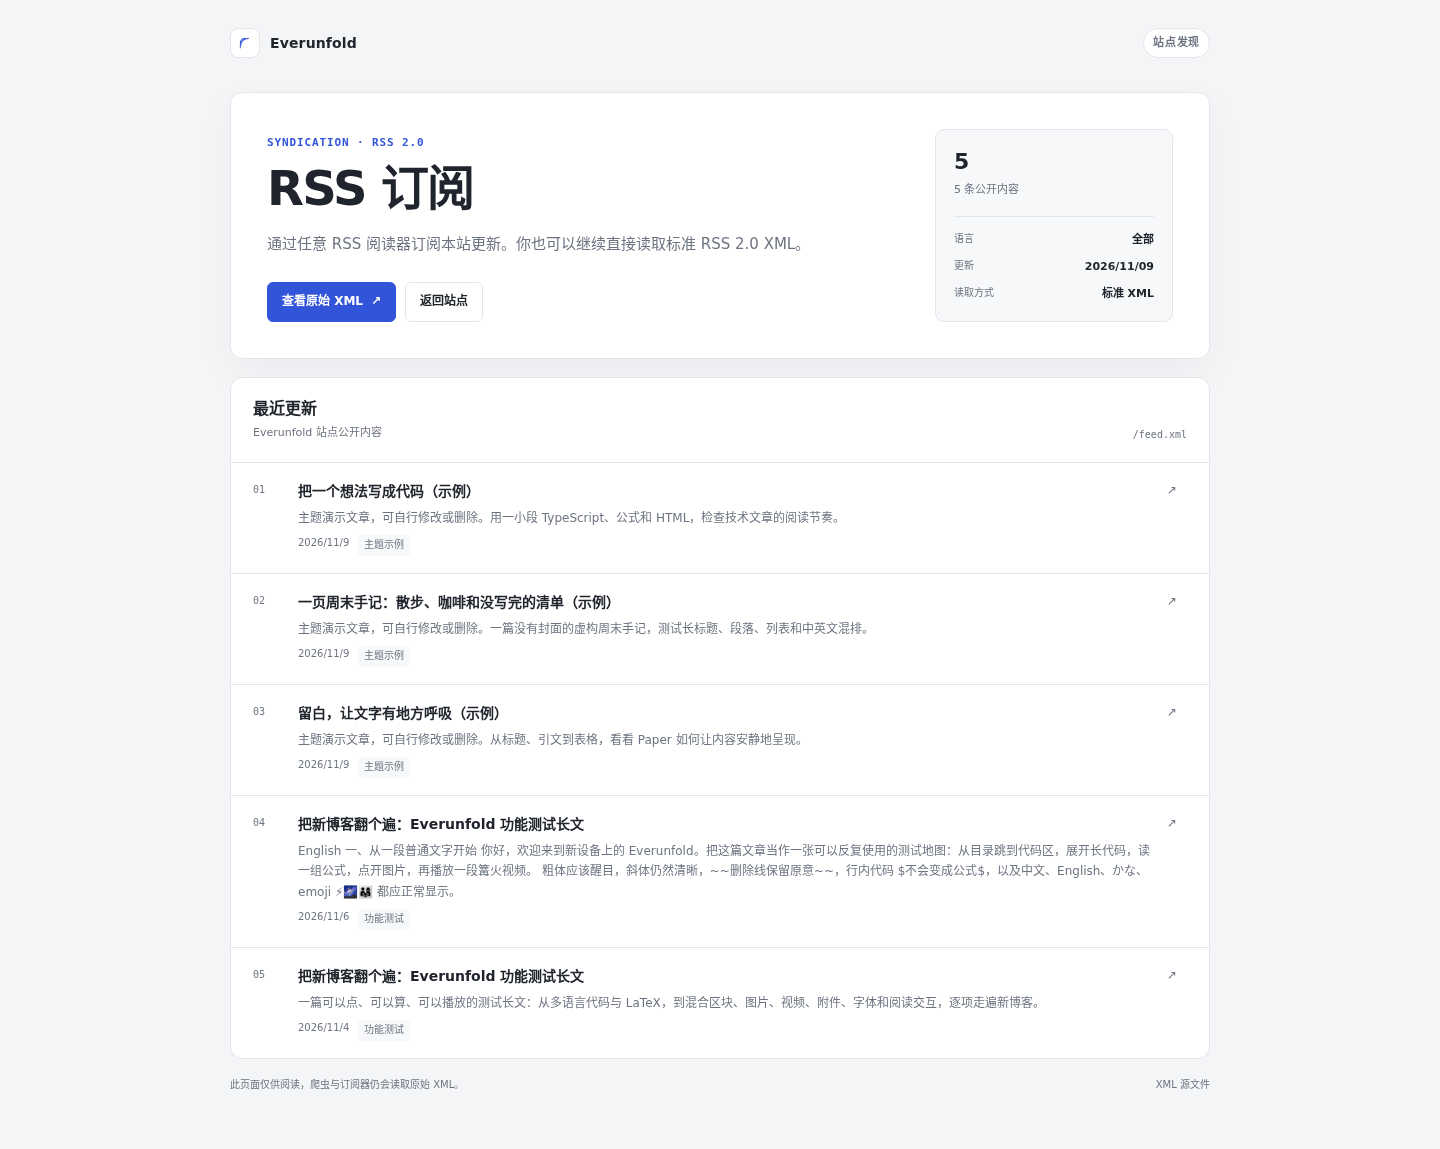
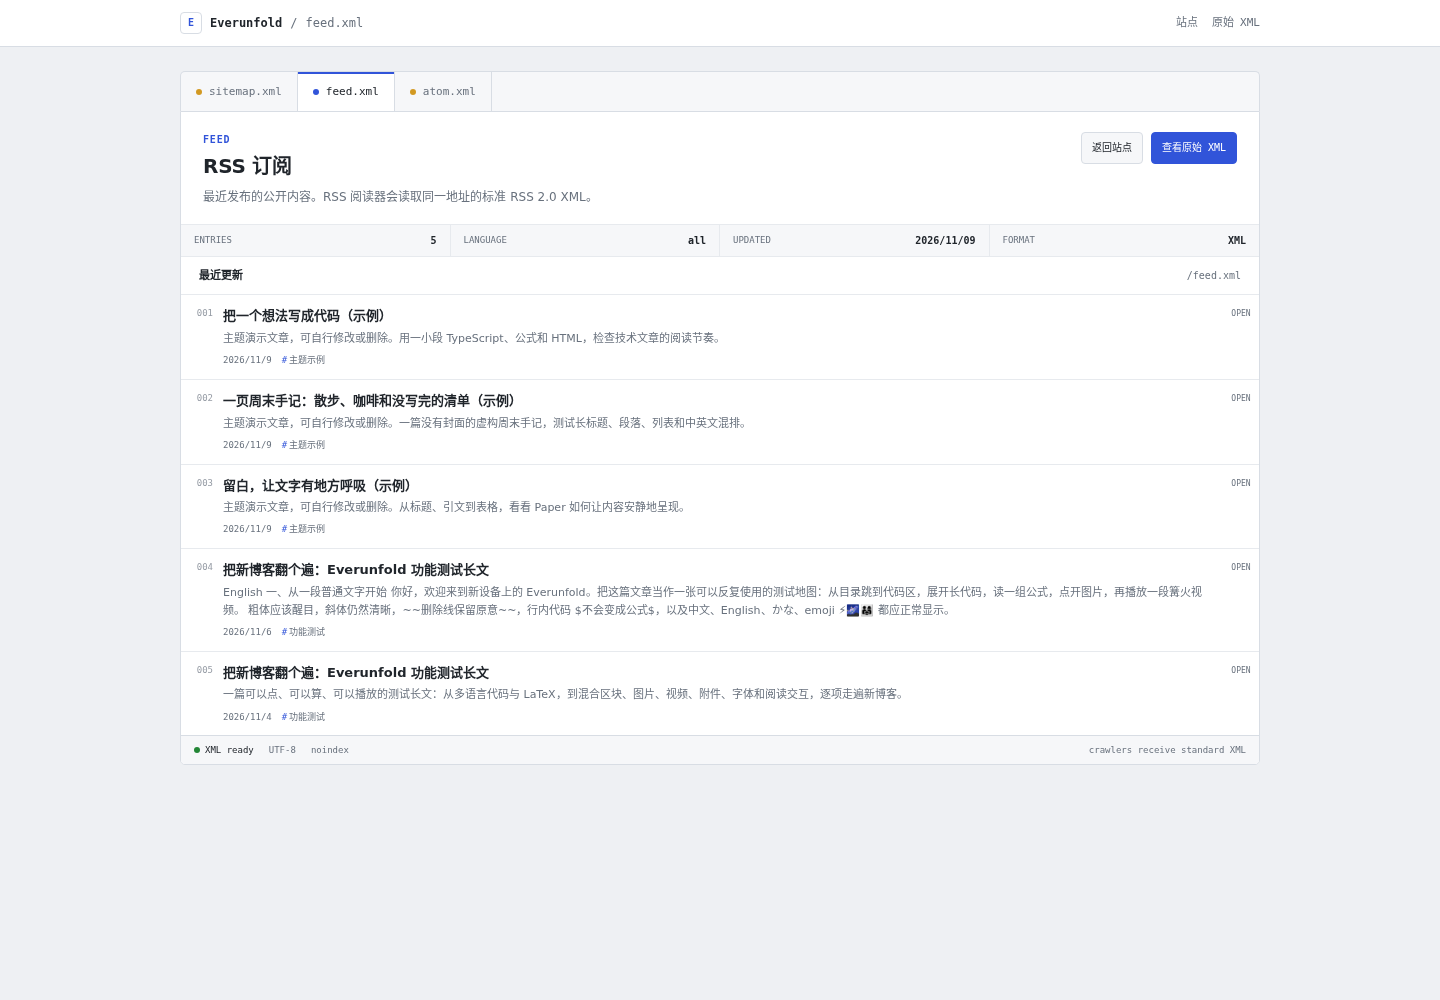
docs: record simplified discovery editor layout

diff --git a/docs/development/operations-and-search.md b/docs/development/operations-and-search.md
@@ -64,7 +64,7 @@ canonical、站点地图和分享地址使用前端服务端部署配置 publicS
 
 ### 浏览器阅读视图与机器响应
 
-`/sitemap.xml`、`/feed.xml` 和 `/atom.xml` 使用同一地址做保守内容协商。普通浏览器页面导航且接受 `text/html` 时，收到无 JavaScript 的品牌说明页，可直接浏览公开地址或最近内容；RSS/Atom 阅读器、已知爬虫、`Accept` 不包含 HTML 的请求继续收到原有标准 XML。Googlebot 等已知爬虫即使同时接受 HTML 也优先返回 XML。
+`/sitemap.xml`、`/feed.xml` 和 `/atom.xml` 使用同一地址做保守内容协商。普通浏览器页面导航且接受 `text/html` 时，收到无 JavaScript 的代码编辑器式阅读页，可直接浏览公开地址或最近内容；RSS/Atom 阅读器、已知爬虫、`Accept` 不包含 HTML 的请求继续收到原有标准 XML。Googlebot 等已知爬虫即使同时接受 HTML 也优先返回 XML。
 
 原始 XML 可通过 `?format=xml` 强制读取；例如 `/feed.xml?format=xml`。浏览器说明页按钮链接到该地址。机器响应不增加登录、脚本或重定向。两个响应都声明`Vary: Accept, Sec-Fetch-Dest, User-Agent`，避免共享缓存把 HTML 与 XML 混用。HTML 视图使用`noindex, follow`，不改变站点正文的索引策略。
 

diff --git a/docs/decisions/0119-discovery-documents-for-browsers-and-crawlers.md b/docs/decisions/0119-discovery-documents-for-browsers-and-crawlers.md
@@ -12,7 +12,7 @@
 2. 只有普通浏览器页面导航、接受`text/html`且 User-Agent 不属于已知爬虫/订阅器时返回 HTML。已知机器人始终优先获得 XML。
 3. `?format=xml`强制返回机器 XML；HTML 页面提供“查看原始 XML”入口。
 4. XML 与 HTML 响应都声明`Vary: Accept, Sec-Fetch-Dest, User-Agent`，防止共享缓存混用表示。
-5. HTML 页面无客户端脚本、无外部资源，使用响应式静态排版和系统字体；标题、摘要、路径、语言与更新时间全部重新转义。
+5. HTML 页面无客户端脚本、无外部资源，使用克制的代码编辑器布局：文件标签、元数据状态栏、等宽路径与响应式内容行；标题、摘要、路径、语言与更新时间全部重新转义。
 6. HTML 视图使用`noindex, follow`；正文页面索引规则、权限和公开快照不改。
 7. `/sitemap.xml`由 Route Handler 生成标准`urlset`，保留语言 alternates、lastmod、changefreq和priority字段。RSS/Atom 继续复用既有稳定 ID、语言过滤和 XML 转义生成器。
 8. 订阅停用或语言无效时，爬虫仍收到404；浏览器收到同样404状态的专业空态说明，不伪装成功。

diff --git a/docs/handoff/STATUS.md b/docs/handoff/STATUS.md
@@ -2,7 +2,7 @@
 
 ## 最新交付：发现文件浏览器视图与通知平台图标（2026-11-11）
 
-- `/sitemap.xml`、`/feed.xml`、`/atom.xml`在普通浏览器直接打开时显示无脚本响应式阅读页；RSS/Atom阅读器、Googlebot等已知爬虫继续收到原标准XML，`?format=xml`可强制读取原始文件。
+- `/sitemap.xml`、`/feed.xml`、`/atom.xml`在普通浏览器直接打开时显示无脚本、朴素代码编辑器风格的响应式阅读页；RSS/Atom阅读器、Googlebot等已知爬虫继续收到原标准XML，`?format=xml`可强制读取原始文件。
 - 站点地图Route Handler保留`urlset`、语言alternates和`lastmod`；HTML与XML响应声明`Vary`，浏览器视图使用`noindex, follow`与限制性CSP。
 - 通知平台菜单改用独立`notification-platform`图标（发送），与插件管理图标不再重复。
 - 实际HTTP确认HTML/XML内容类型分流；1440px站点地图、RSS与390px RSS实页无溢出或脚本错误，后台图标路径也与插件管理不同。

diff --git a/docs/handoff/discovery-browser-view-verification.md b/docs/handoff/discovery-browser-view-verification.md
@@ -19,7 +19,7 @@
 ## 实页验收
 
 - Chromium直接访问`/sitemap.xml`与`/feed.xml`均显示完整说明页；`/atom.xml`显示Atom说明页。
-- 1440px站点地图、RSS以及390px RSS均无横向溢出或`pageerror`。桌面采用标题、摘要和地址列表的规整层级，手机自动变为单列。
+- 1440px站点地图、RSS以及390px RSS均无横向溢出或`pageerror`。桌面采用朴素代码编辑器布局：文件标签、元数据状态栏、带行号的紧凑列表；没有大幅宣传标题或卡片阴影，手机自动变为单列。
 - 真实后台检查通知平台菜单图标为独立发送图标，和插件管理图标路径不同。
 
 ## 证据
